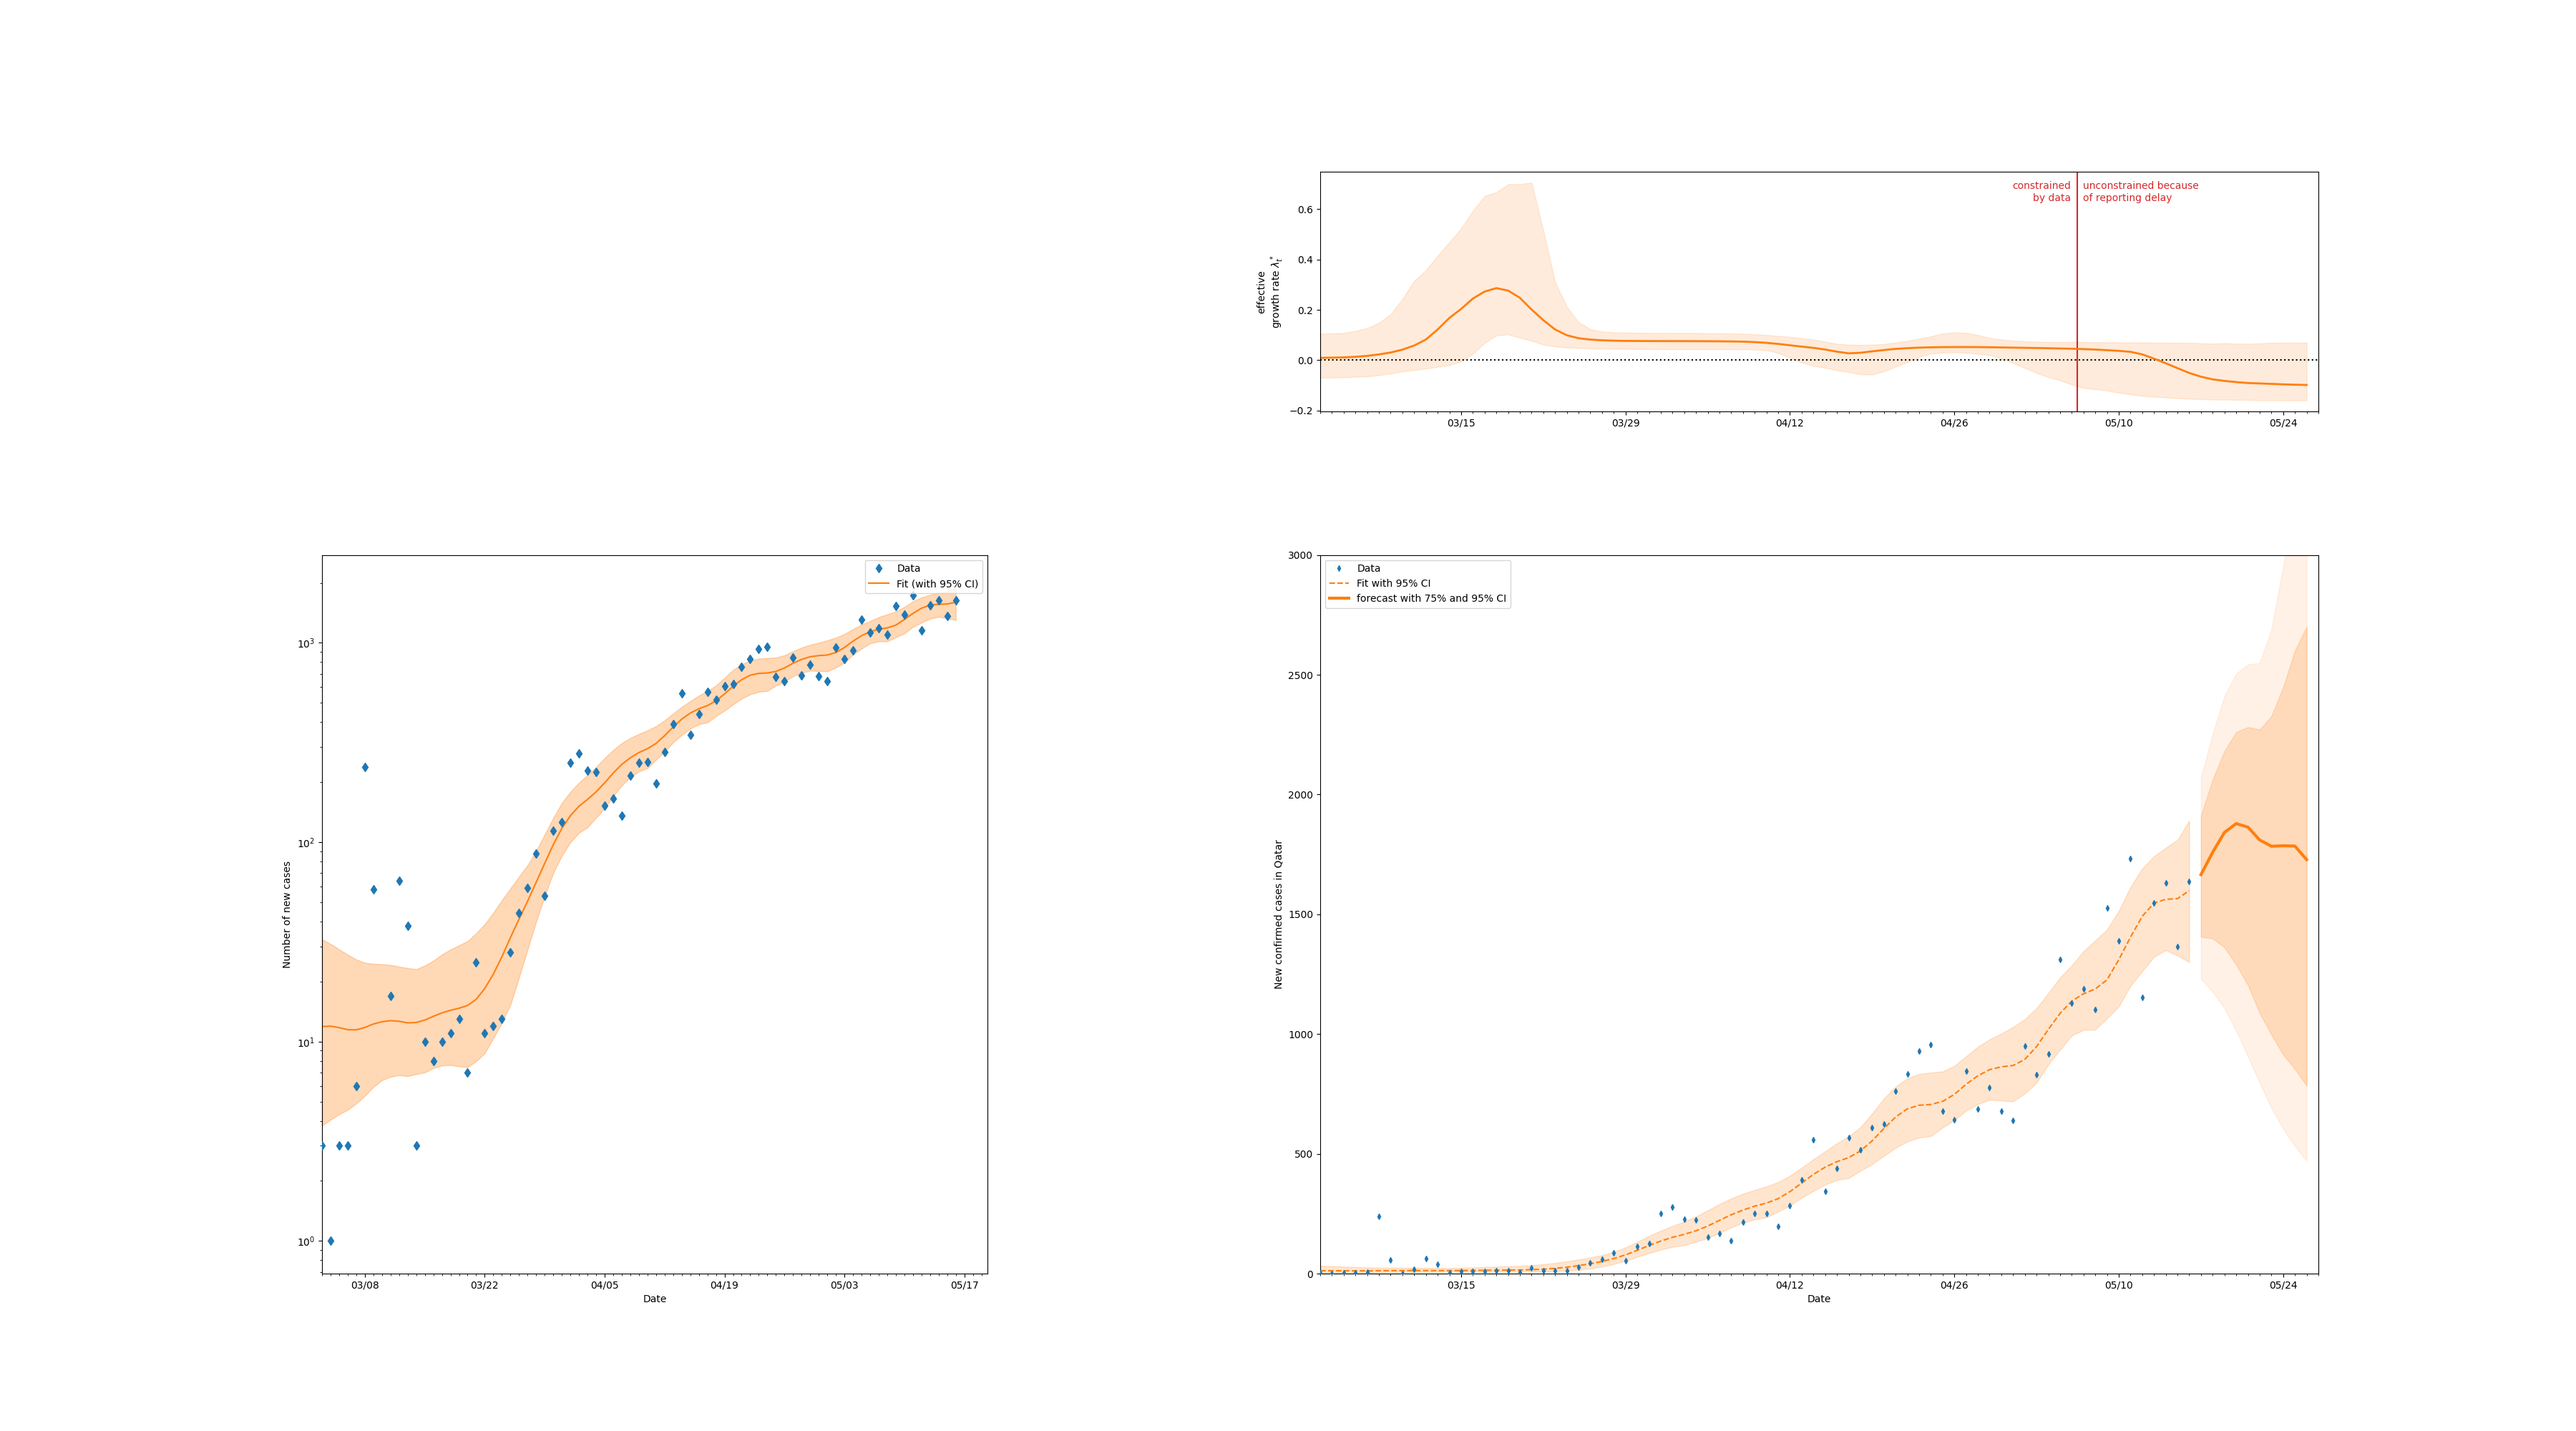
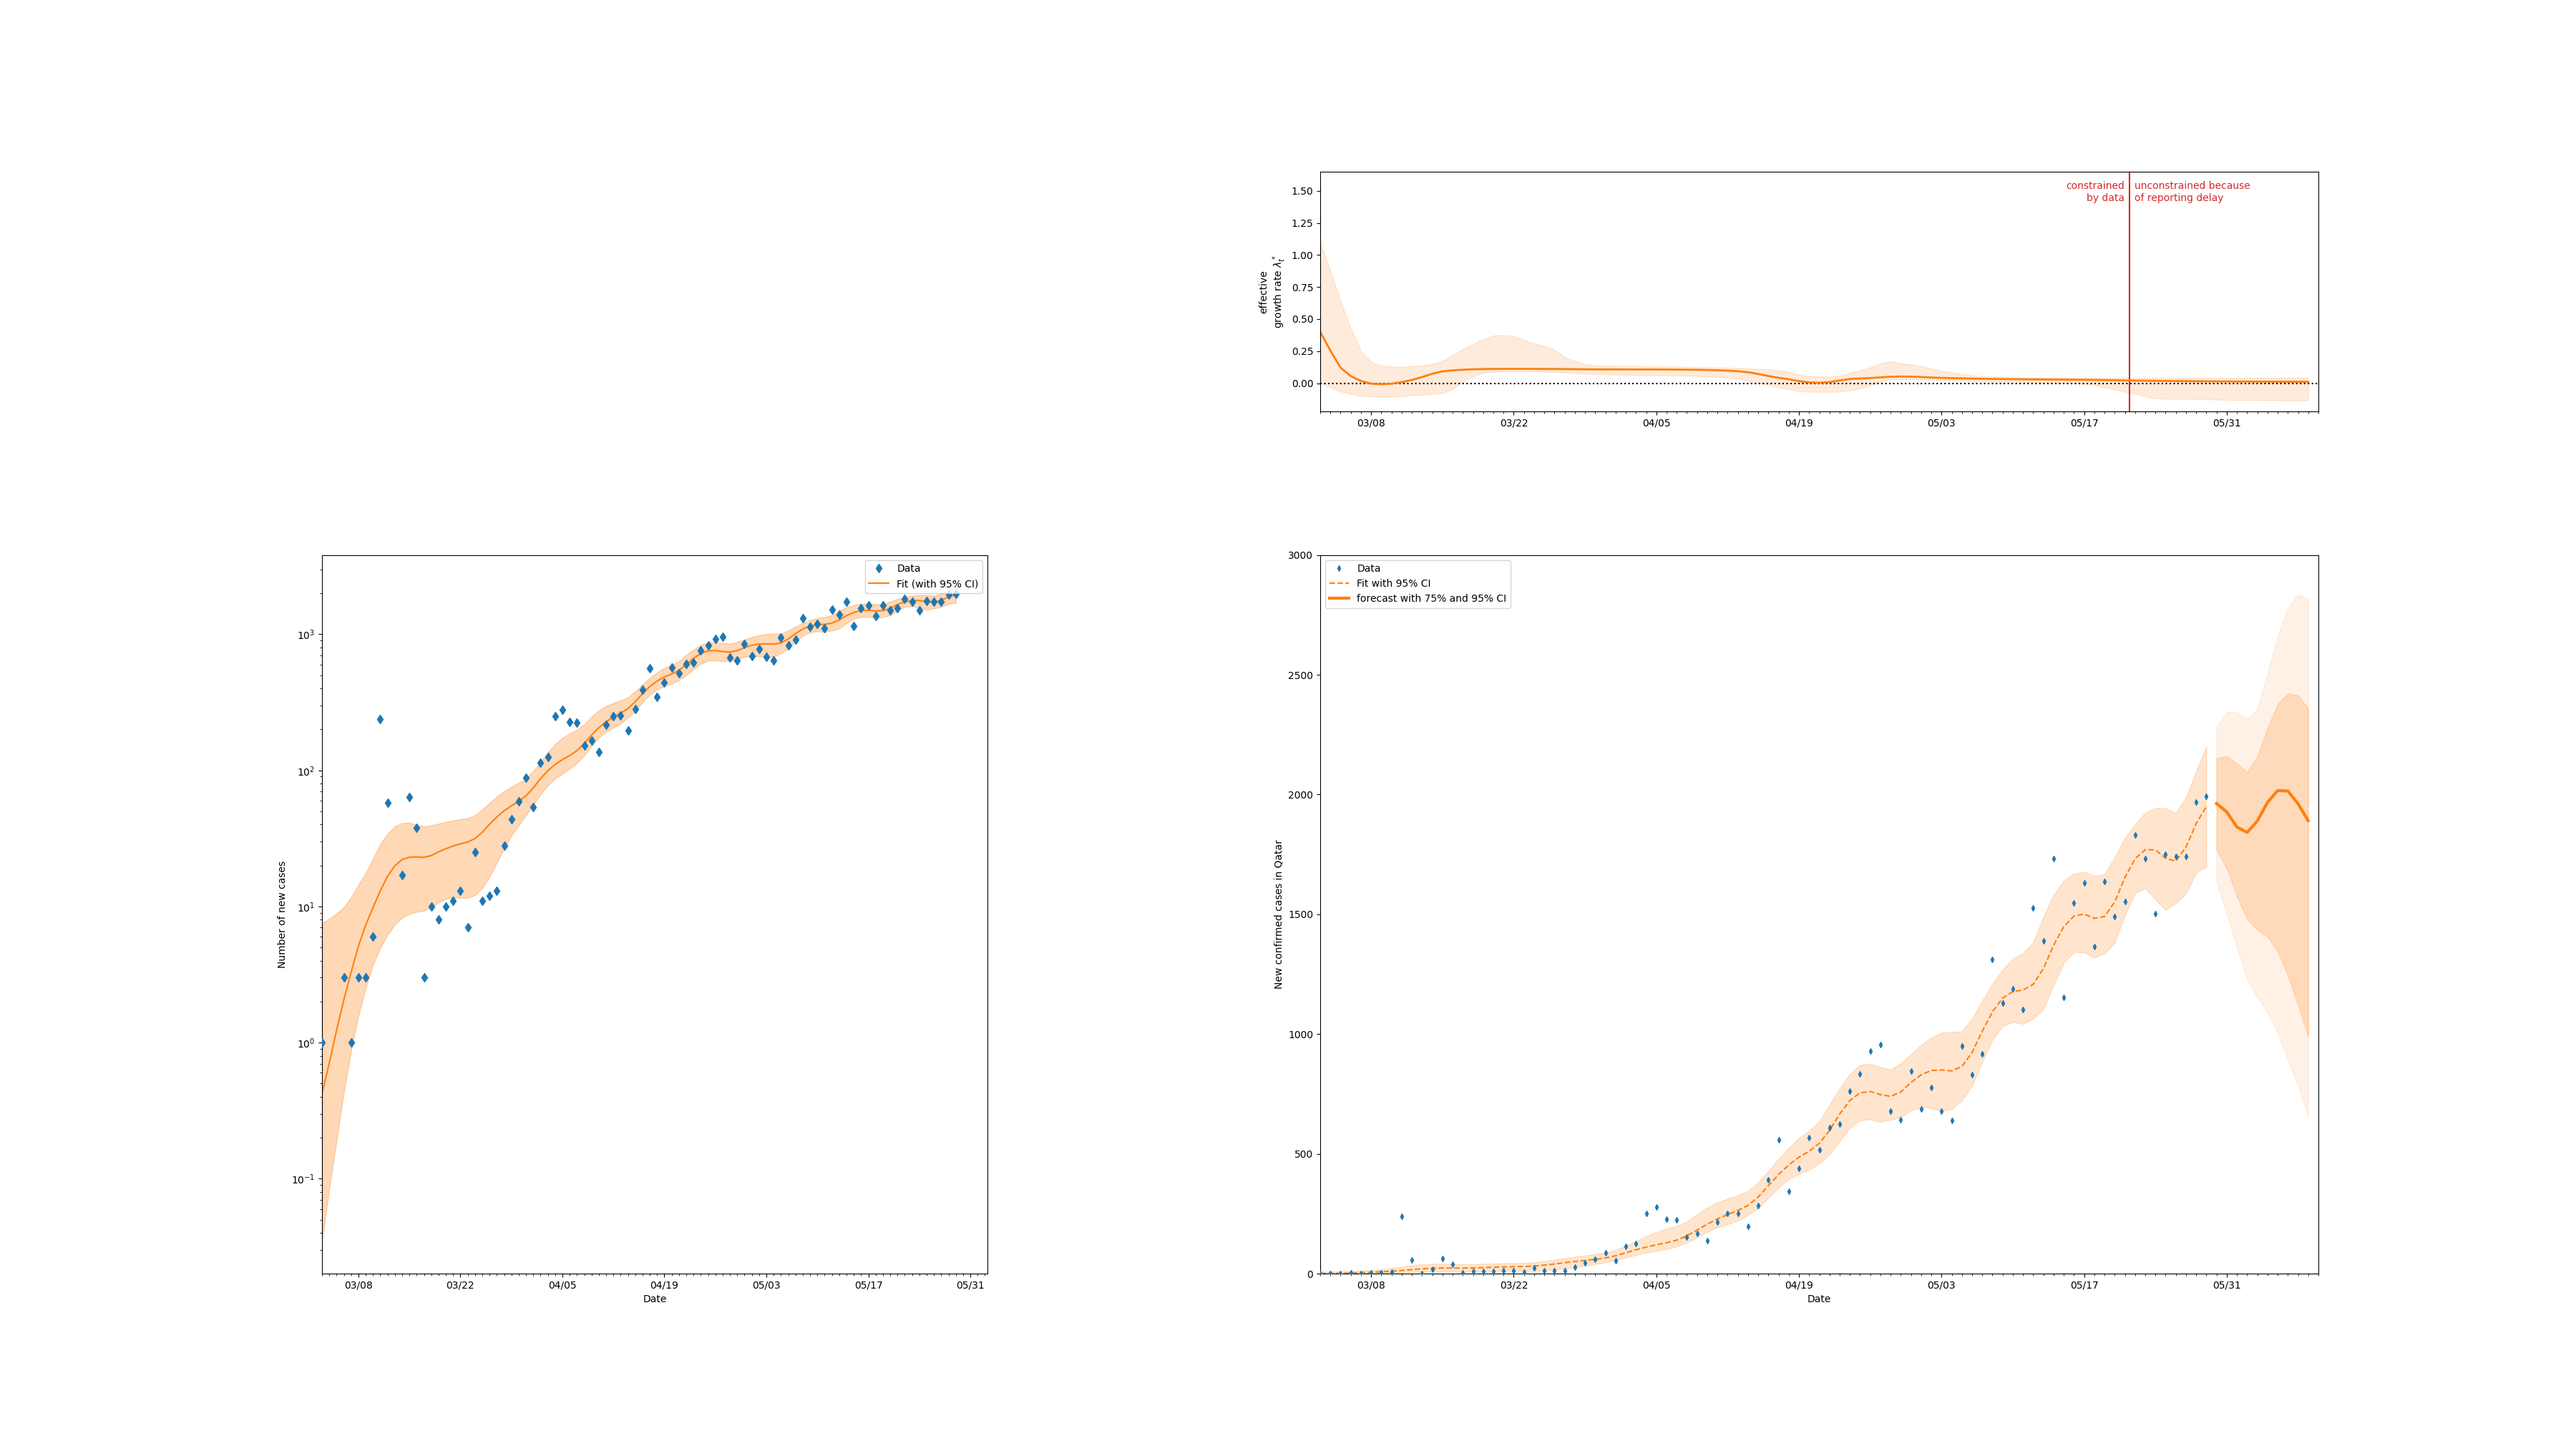
updates

diff --git a/scripts/example_qatar.py b/scripts/example_qatar.py
@@ -67,8 +67,8 @@ prior_date_school_shutdown =  datetime.datetime(2020,3,10)
 prior_date_border_closure =  datetime.datetime(2020,3,18)
 prior_ramadan =  datetime.datetime(2020,4,23)
 prior_date_mask_shopping =  datetime.datetime(2020,4,26)
-prior_data_mask_compulsory = datetime.datetime(2020,5,17)
-
+prior_date_mask_compulsory = datetime.datetime(2020,5,17)
+prior_date_eid_measures = datetime.datetime(2020,5,21)
 # List of change points
 change_points = [dict(pr_mean_date_transient = prior_date_school_shutdown,
                       pr_sigma_date_transient = 6,
@@ -86,9 +86,13 @@ change_points = [dict(pr_mean_date_transient = prior_date_school_shutdown,
                       pr_sigma_date_transient = 10,
                       pr_median_lambda = 1/8/2,
                       pr_sigma_lambda = 1),
-                 dict(pr_mean_date_transient = prior_data_mask_compulsory,
-                      pr_sigma_date_transient = 4,
+                 dict(pr_mean_date_transient = prior_date_mask_compulsory,
+                      pr_sigma_date_transient = 10,
                       pr_median_lambda = 1/8/4,
+                      pr_sigma_lambda = 1),
+                 dict(pr_mean_date_transient = prior_date_eid_measures,
+                      pr_sigma_date_transient = 6,
+                      pr_median_lambda = 1/8,
                       pr_sigma_lambda = 1)]
 
 # %% [markdown]

diff --git a/scripts/estimate_r_t.py b/scripts/estimate_r_t.py
@@ -110,7 +110,7 @@ def get_posteriors(sr, sigma=0.15):
     return posteriors, log_likelihood
 
 #date_begin_data = datetime.datetime(2020,8,3)
-df2 = pd.read_csv('../covid19MLPredictor/data/covid_data.csv')
+df2 = pd.read_csv('../../covid19MLPredictor/data/covid_data.csv')
 df = df2.iloc[:, 2] 
 
 original, smoothed = prepare_cases(df)
